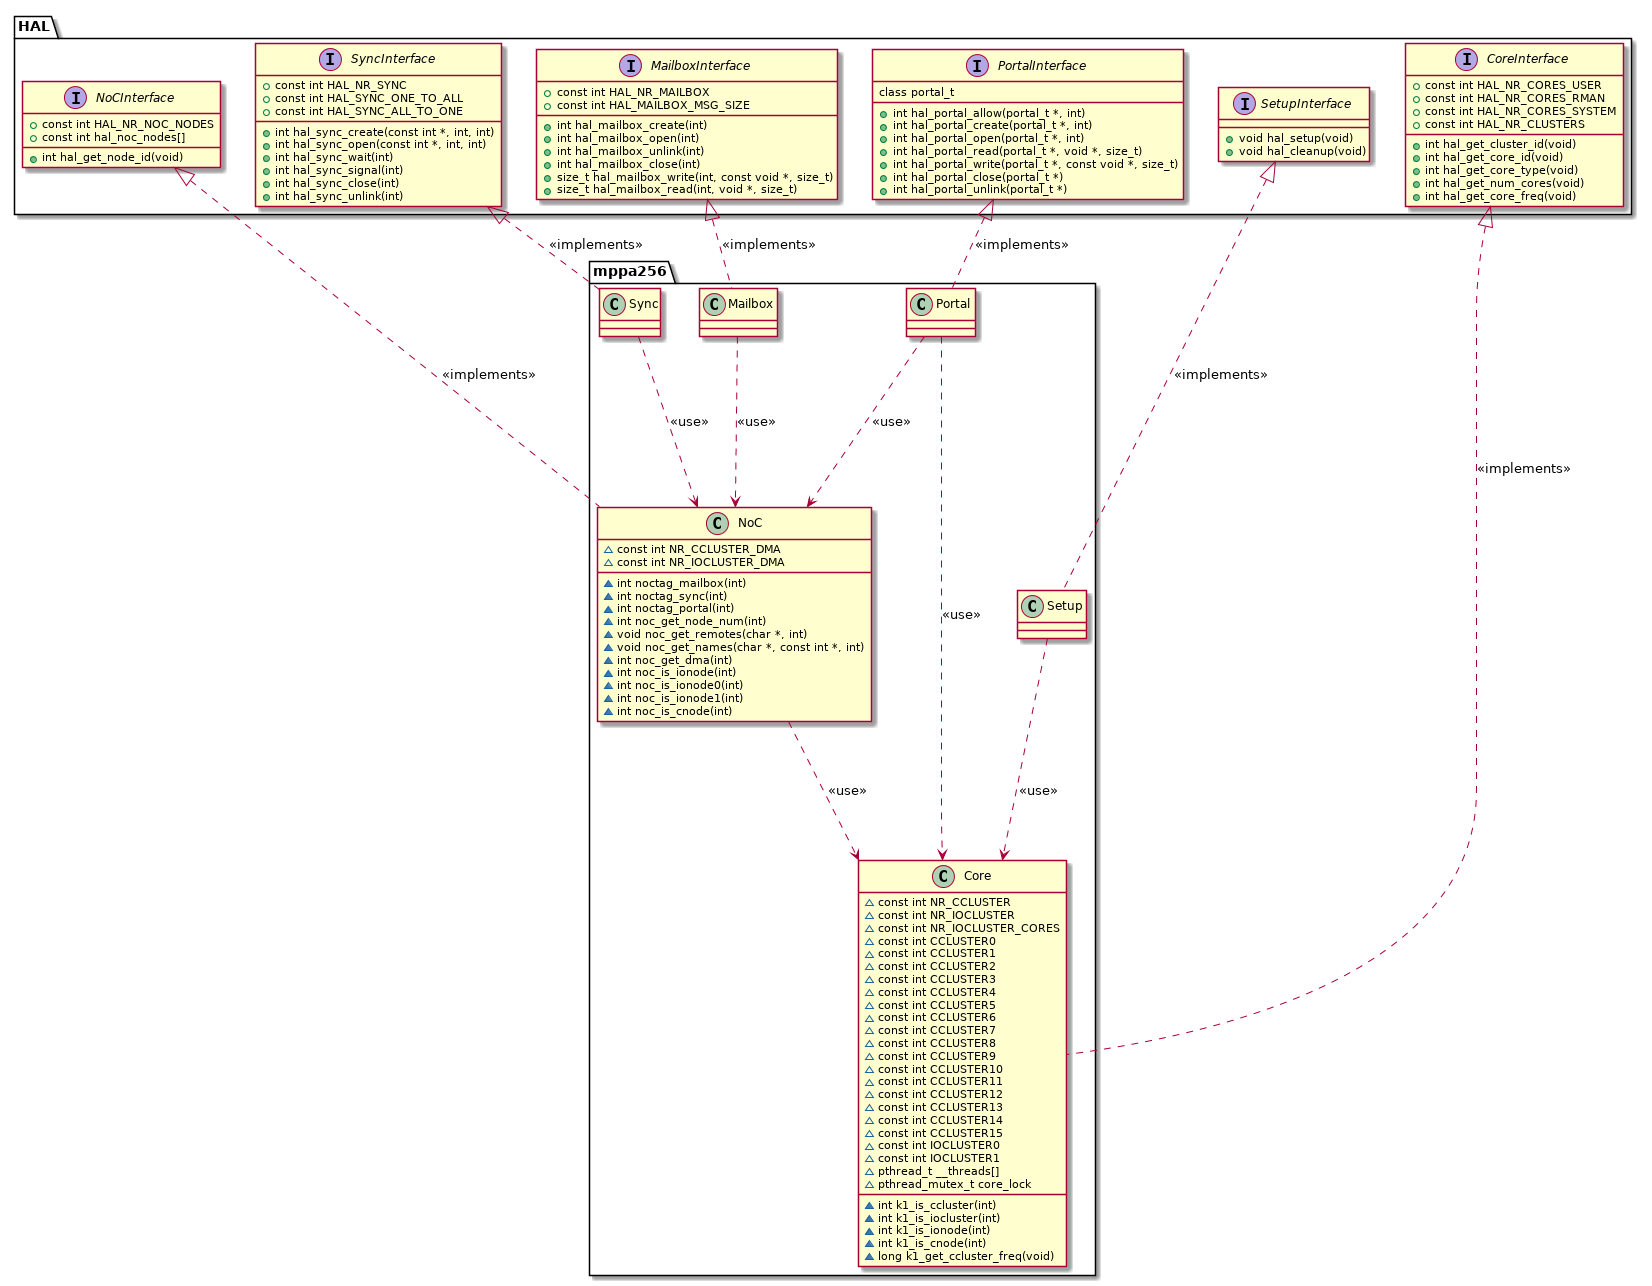
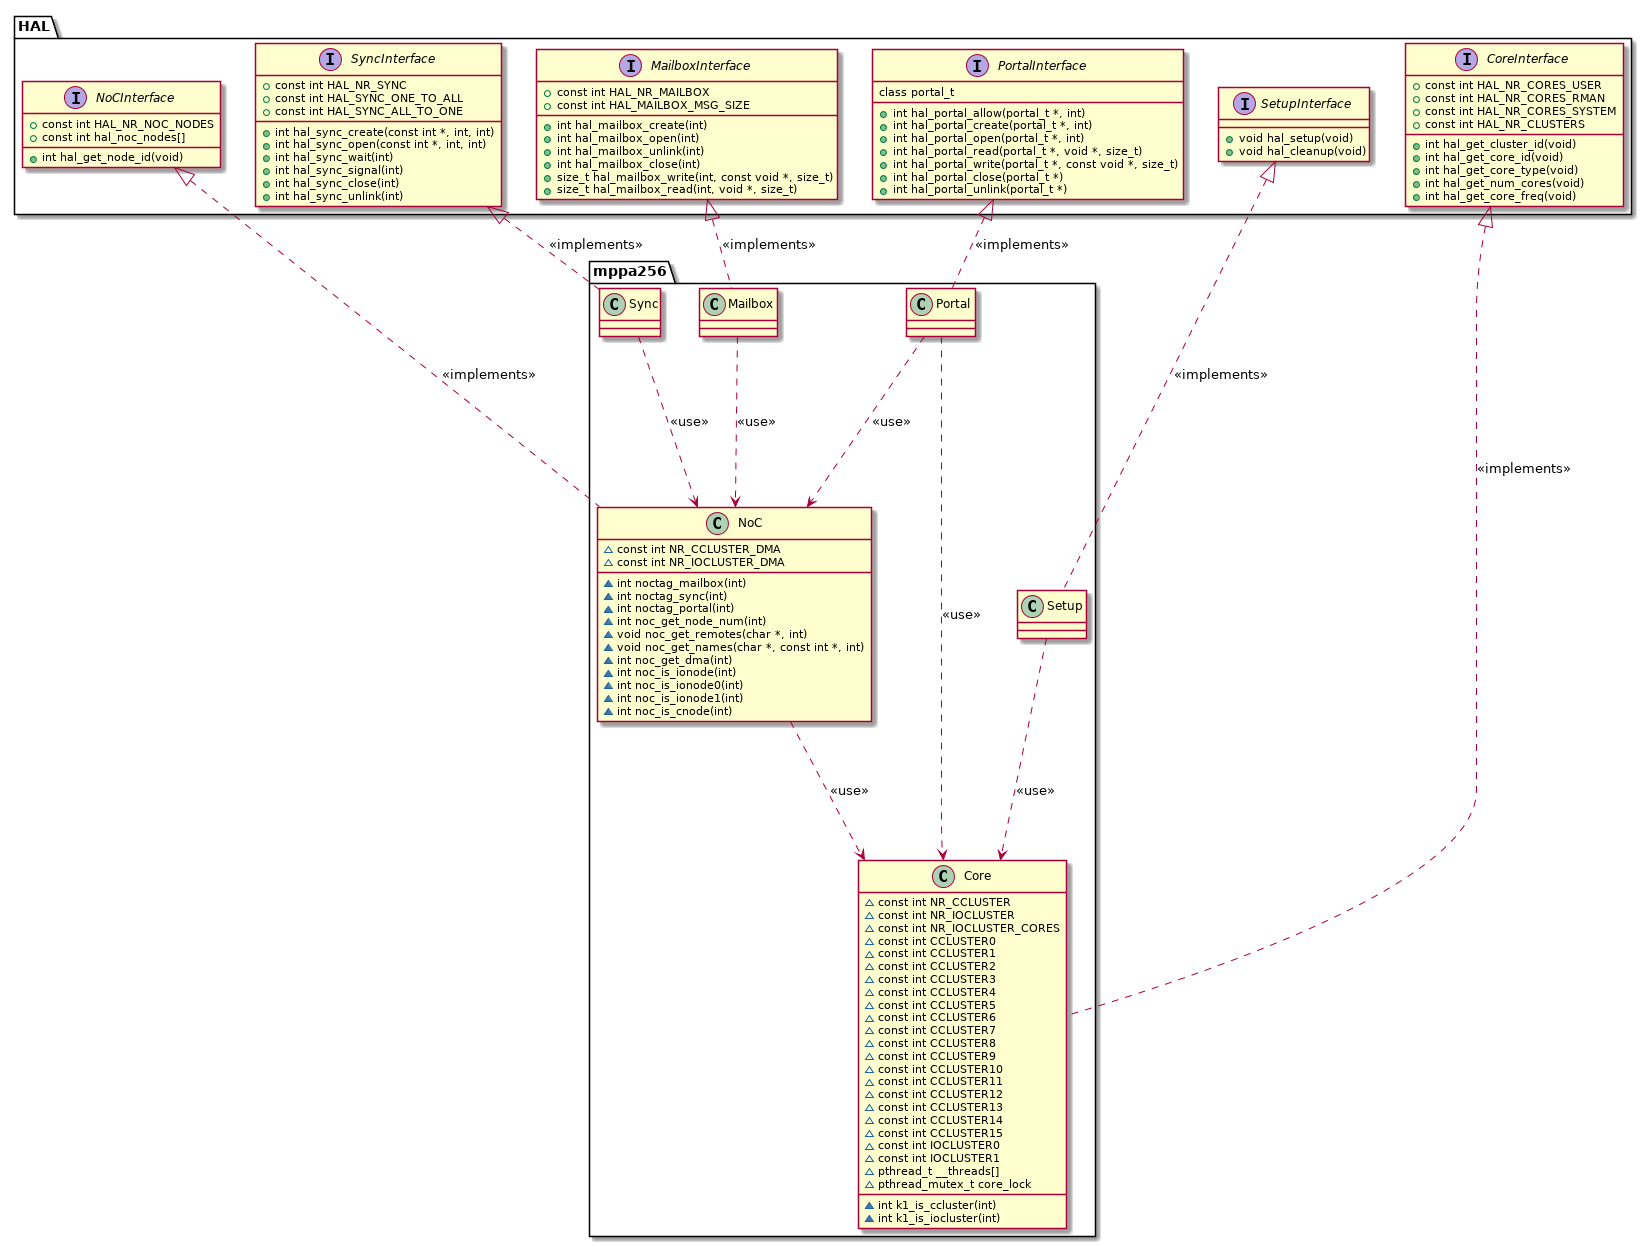
adding hal package schematic

diff --git a/src/kernel/arch/mppa256/mppa.h b/src/kernel/arch/mppa256/mppa.h
@@ -81,12 +81,8 @@
 	#define IOCLUSTER1 192 /**< IO cluster 1.       */
 
 	/* Forward definitions. */
-	extern int hal_get_cluster_id(void);
 	extern int k1_is_ccluster(int);
 	extern int k1_is_iocluster(int);
-	extern int k1_is_ionode(int);
-	extern int k1_is_cnode(int);
-	extern long k1_get_ccluster_freq(void);
 
 	/* Forward definitions. */
 	extern pthread_t __threads[4];
